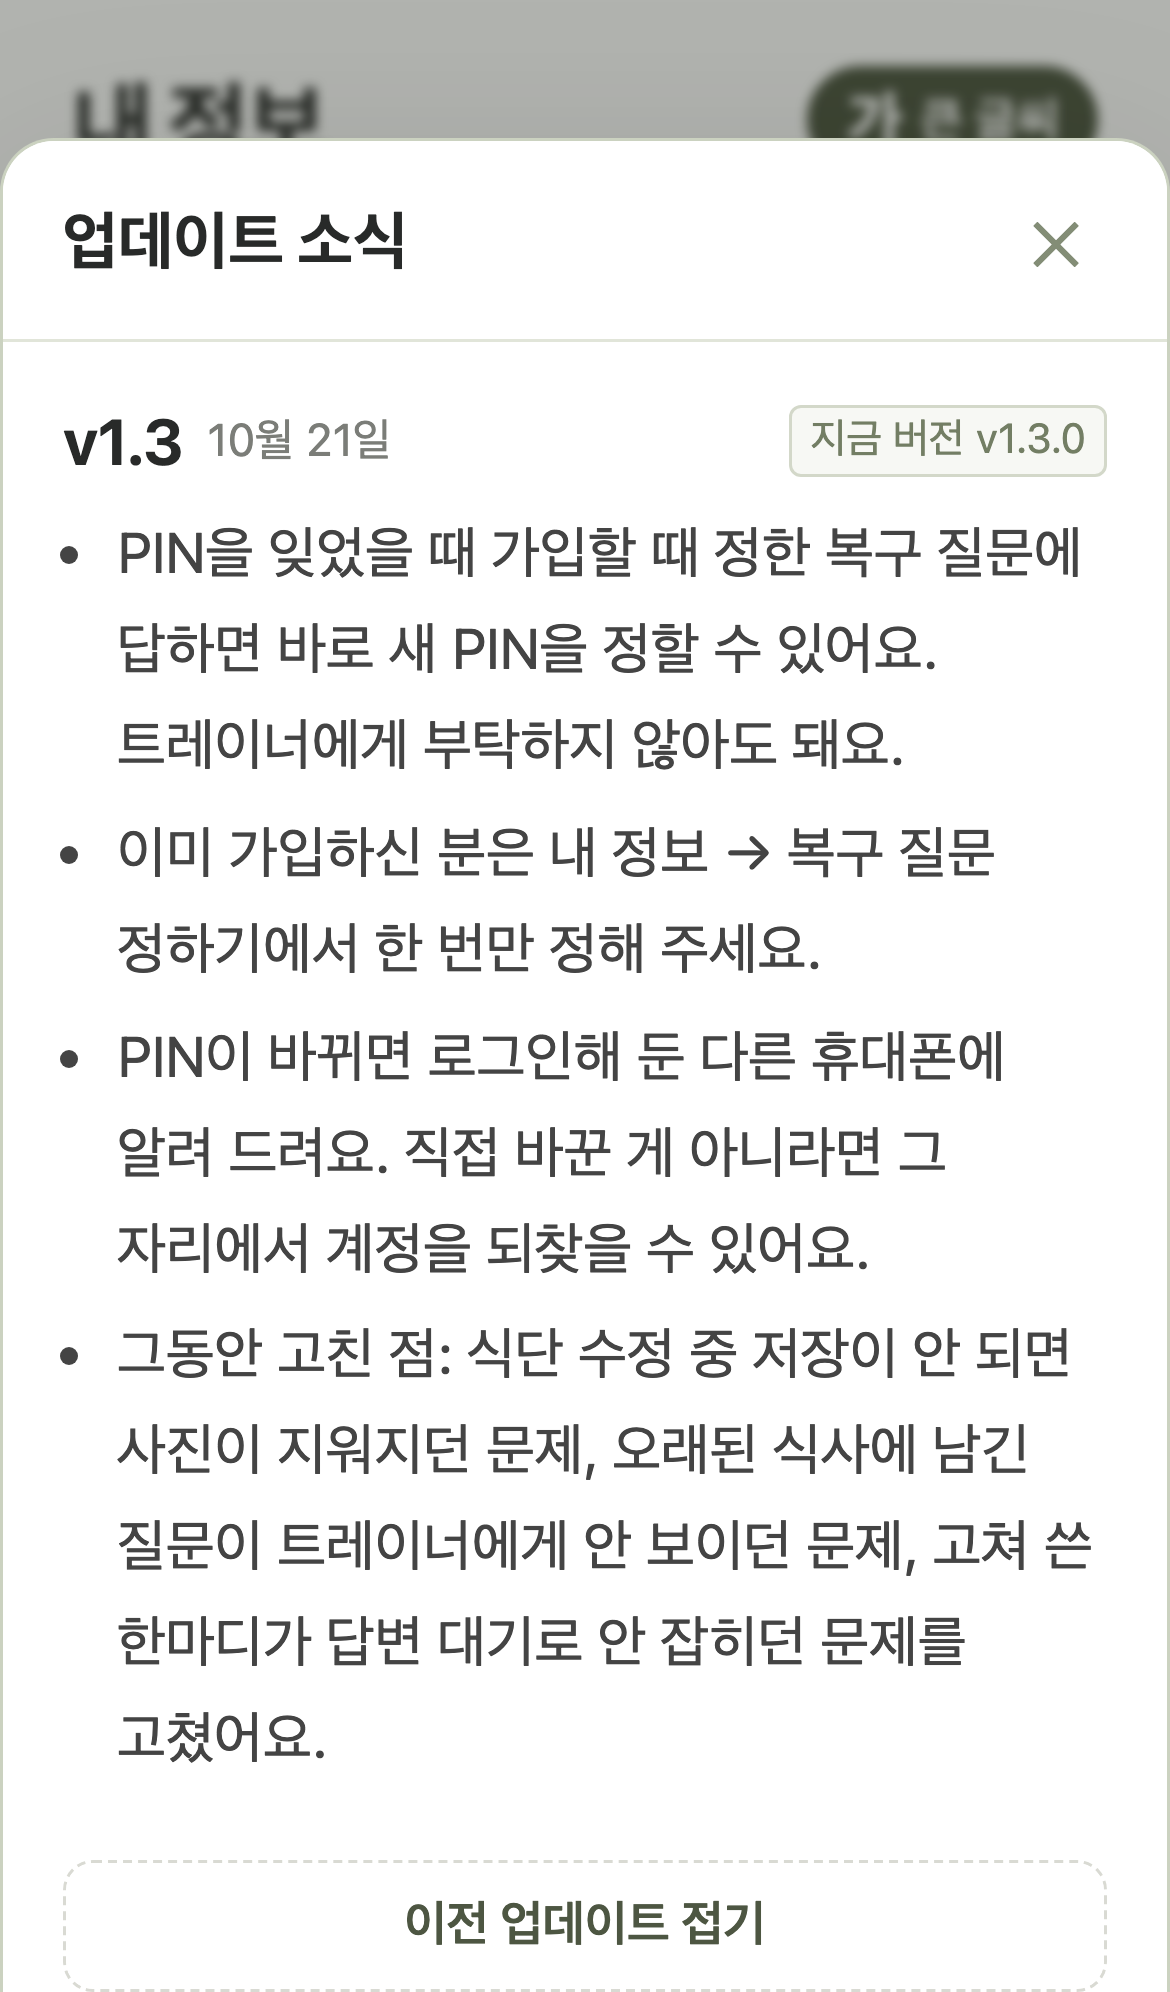
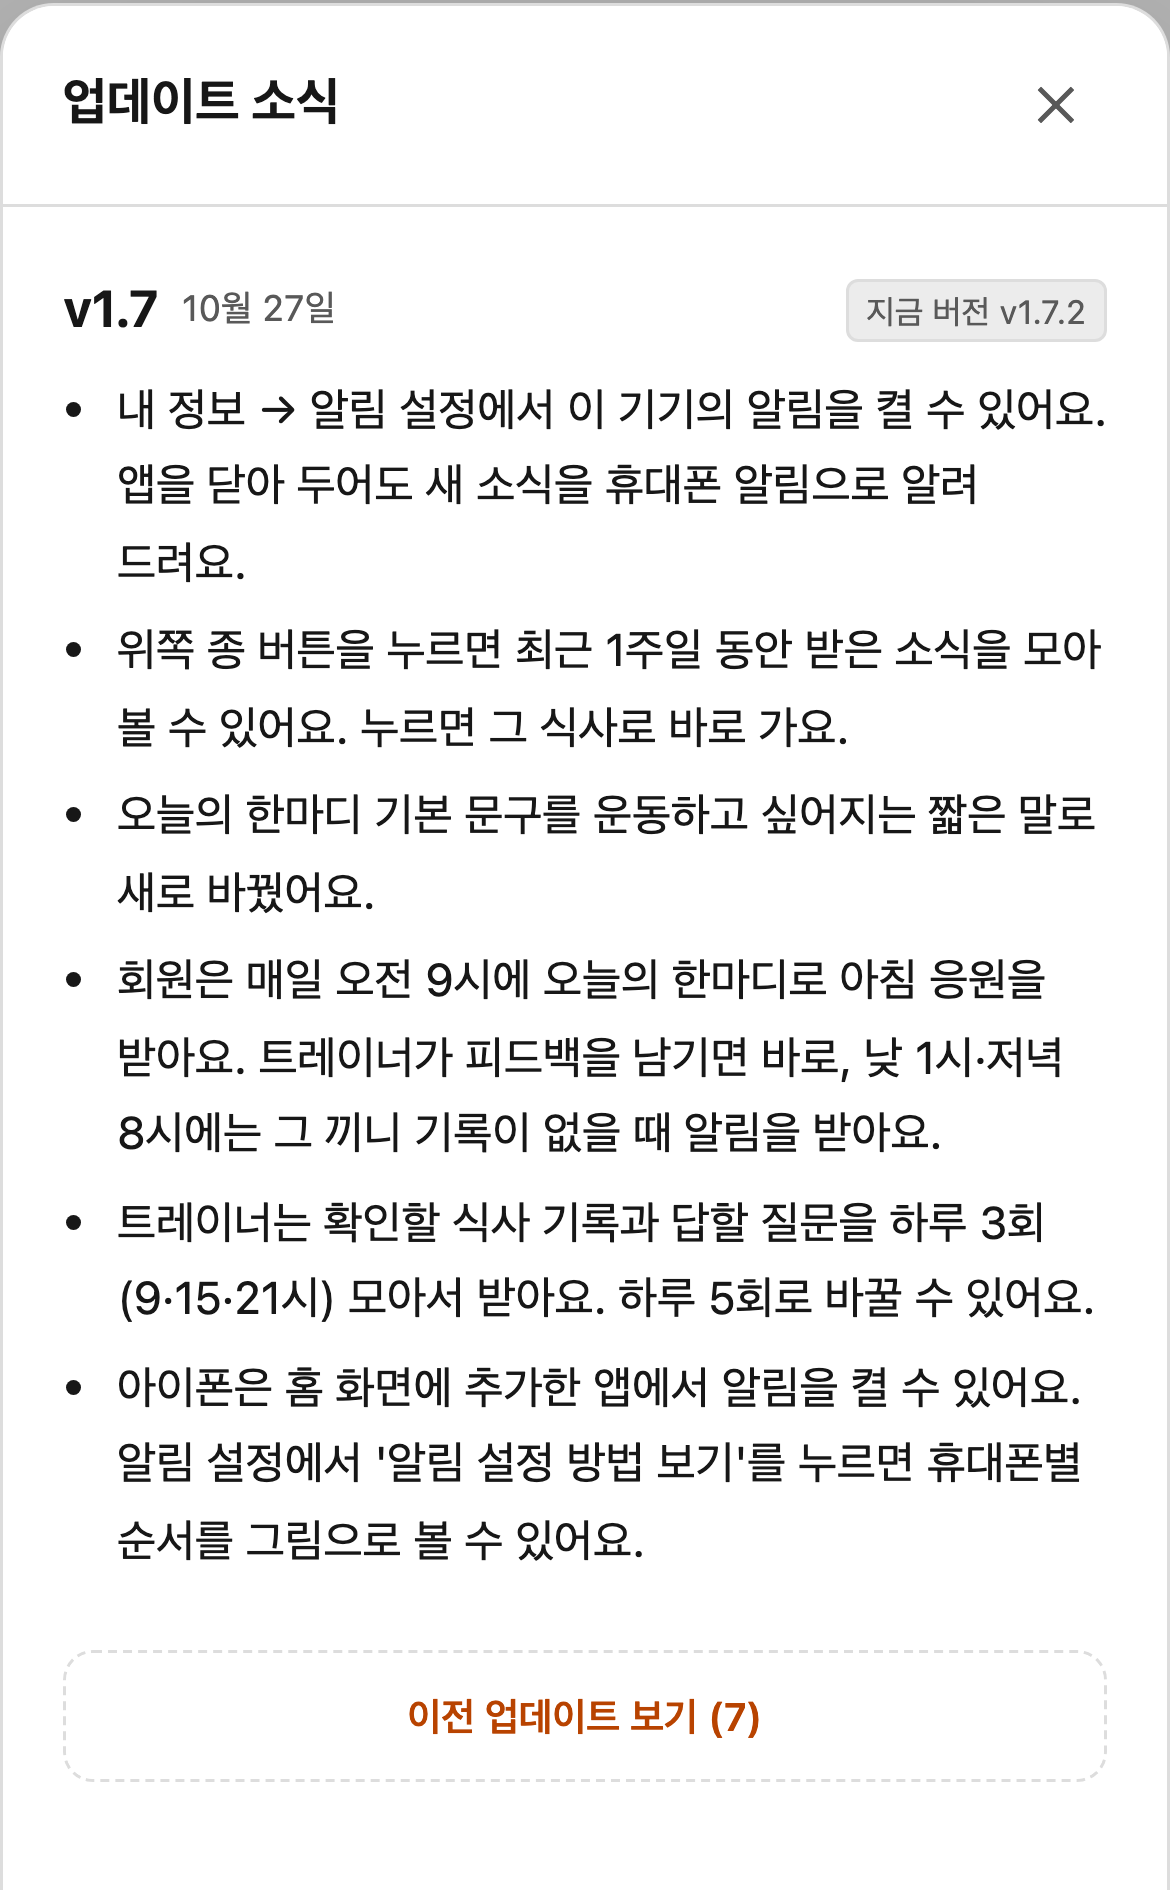
식단노트: 최신 업데이트 화면과 도입부 안내 추가

Changed region(s): [[0.0, 0.0, 1.0, 1.0], [0.0615, 0.8741, 0.9538, 1.0], [0.0, 0.1561, 0.0308, 0.1873]]

diff --git a/README.md b/README.md
@@ -6,6 +6,8 @@
 
 어떤 기능부터 만들지, 회원과 트레이너가 어떻게 쓸지는 제가 정했습니다. Claude Code에 구현을, Codex에 계획과 코드 검토를 맡기고, 양쪽 화면을 직접 써 보며 고쳤습니다.
 
+앱에서 안내한 [실제 업데이트 내역](#app-updates)도 아래에서 볼 수 있습니다.
+
 ## 1. 회원이 기록하고, 트레이너가 피드백하는 서비스
 
 회원이 먹은 음식과 사진, 트레이너에게 묻고 싶은 내용을 남기면 담당 트레이너가 한 목록에서 확인합니다. 식사를 평가하거나 답글을 쓰면 회원의 피드백 화면에 모입니다. 대화는 해당 식사에 붙어 있어, 어떤 음식을 두고 나눈 이야기인지 함께 볼 수 있습니다.
@@ -122,12 +124,14 @@ AI가 이를 다듬은 문구가 현재의 ‘아주 좋아요’, ‘좋아요,
 
 코드는 React·Vite, Supabase, Cloudflare Pages를 사용합니다. 기술 구성과 실행·검증 방법은 [운영 안내](docs/운영_안내.md)에, 기획안·화면 시안·검토 원문은 [참고 자료](docs/reference/)에 있습니다.
 
+<a name="app-updates"></a>
+
 <details>
 <summary>앱 안의 업데이트 소식</summary>
 
-v1.3 배포 당시 앱 화면입니다. 이미지를 누르면 크게 볼 수 있습니다.
+현재 버전(v1.7.2)의 업데이트 소식입니다. 앱 코드로 화면을 재현해 캡처했으며, 이미지를 누르면 크게 볼 수 있습니다.
 
-[<img src="docs/images/06_release_notes.png" width="360" alt="실제 앱의 v1.3 업데이트 소식. 계정 복구 방법과 수정 내역을 안내하는 화면">](docs/images/06_release_notes.png)
+[<img src="docs/images/06_release_notes.png" width="360" alt="현재 앱 v1.7.2의 업데이트 소식. 휴대폰 알림과 알림 목록, 회원·트레이너별 알림을 안내하는 화면">](docs/images/06_release_notes.png)
 
 </details>
 
